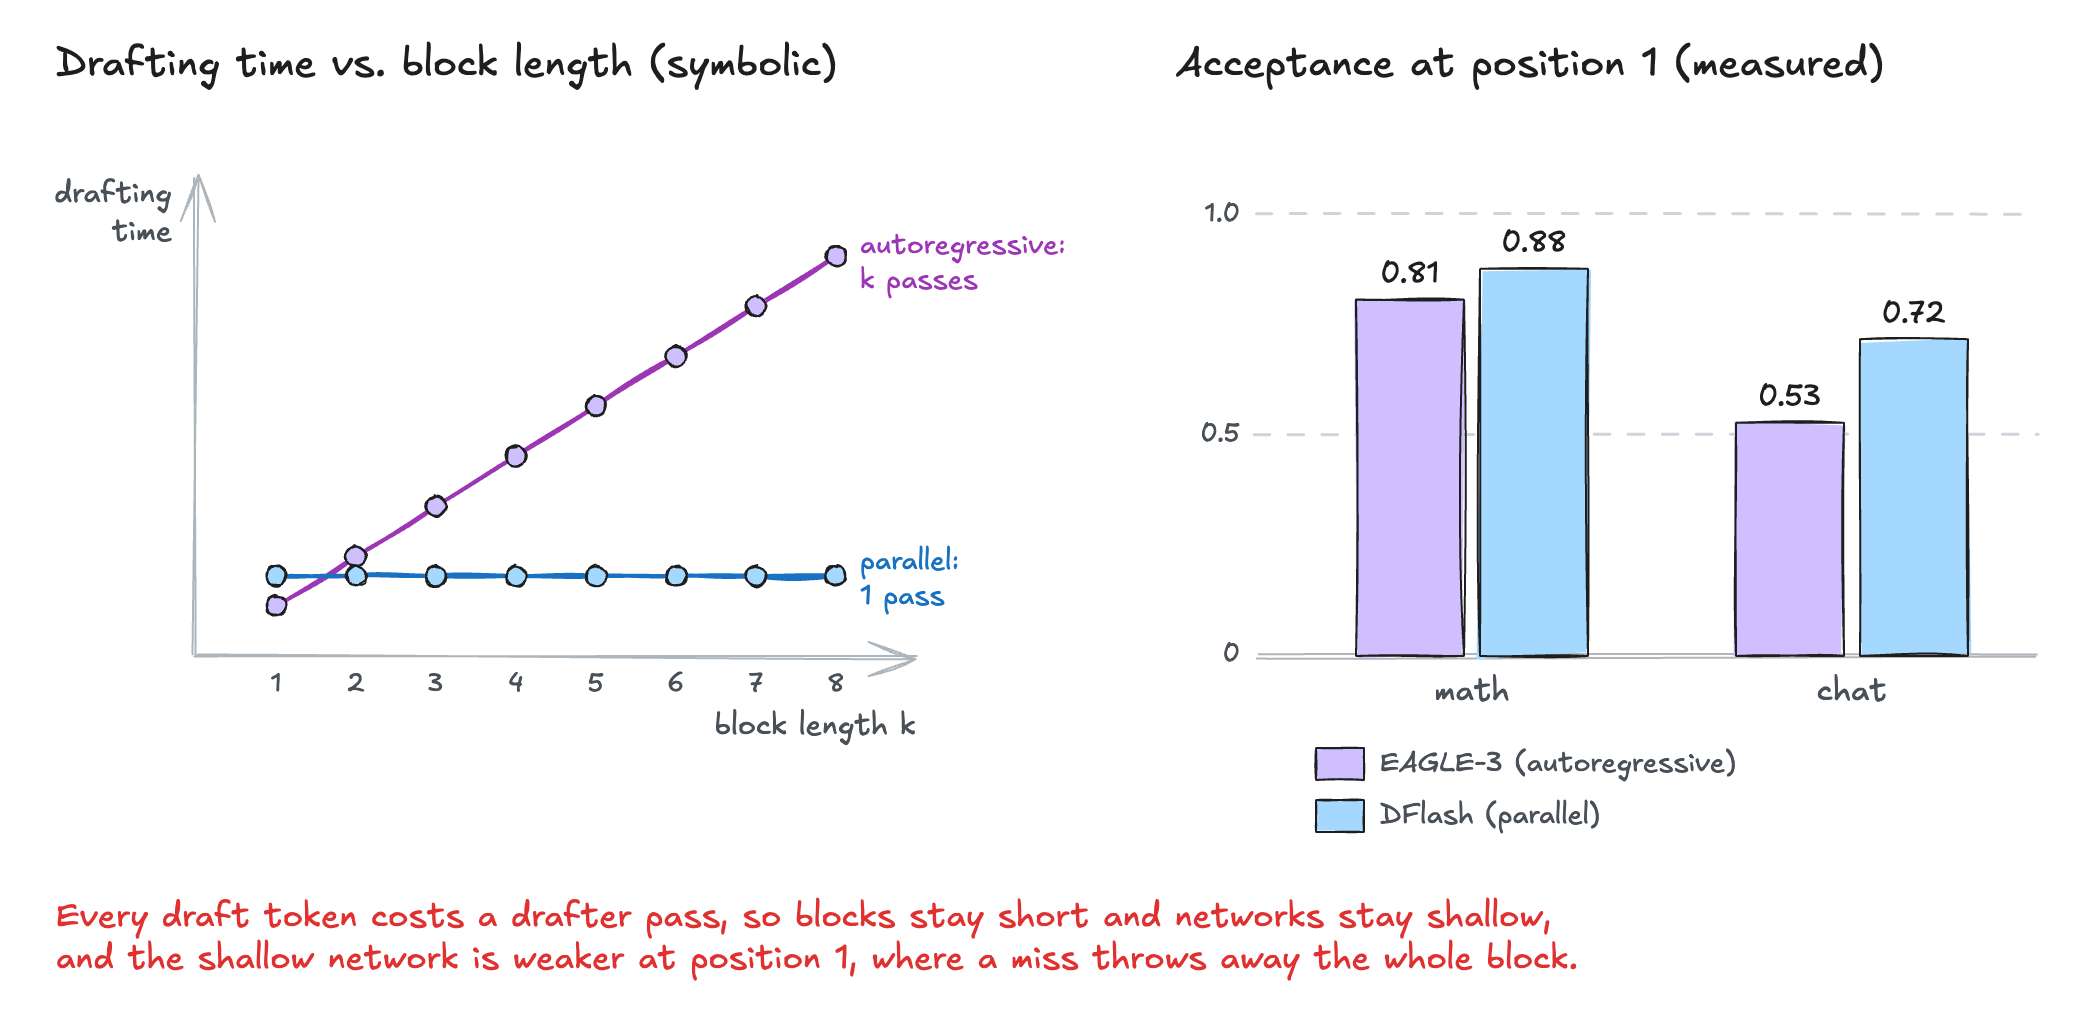
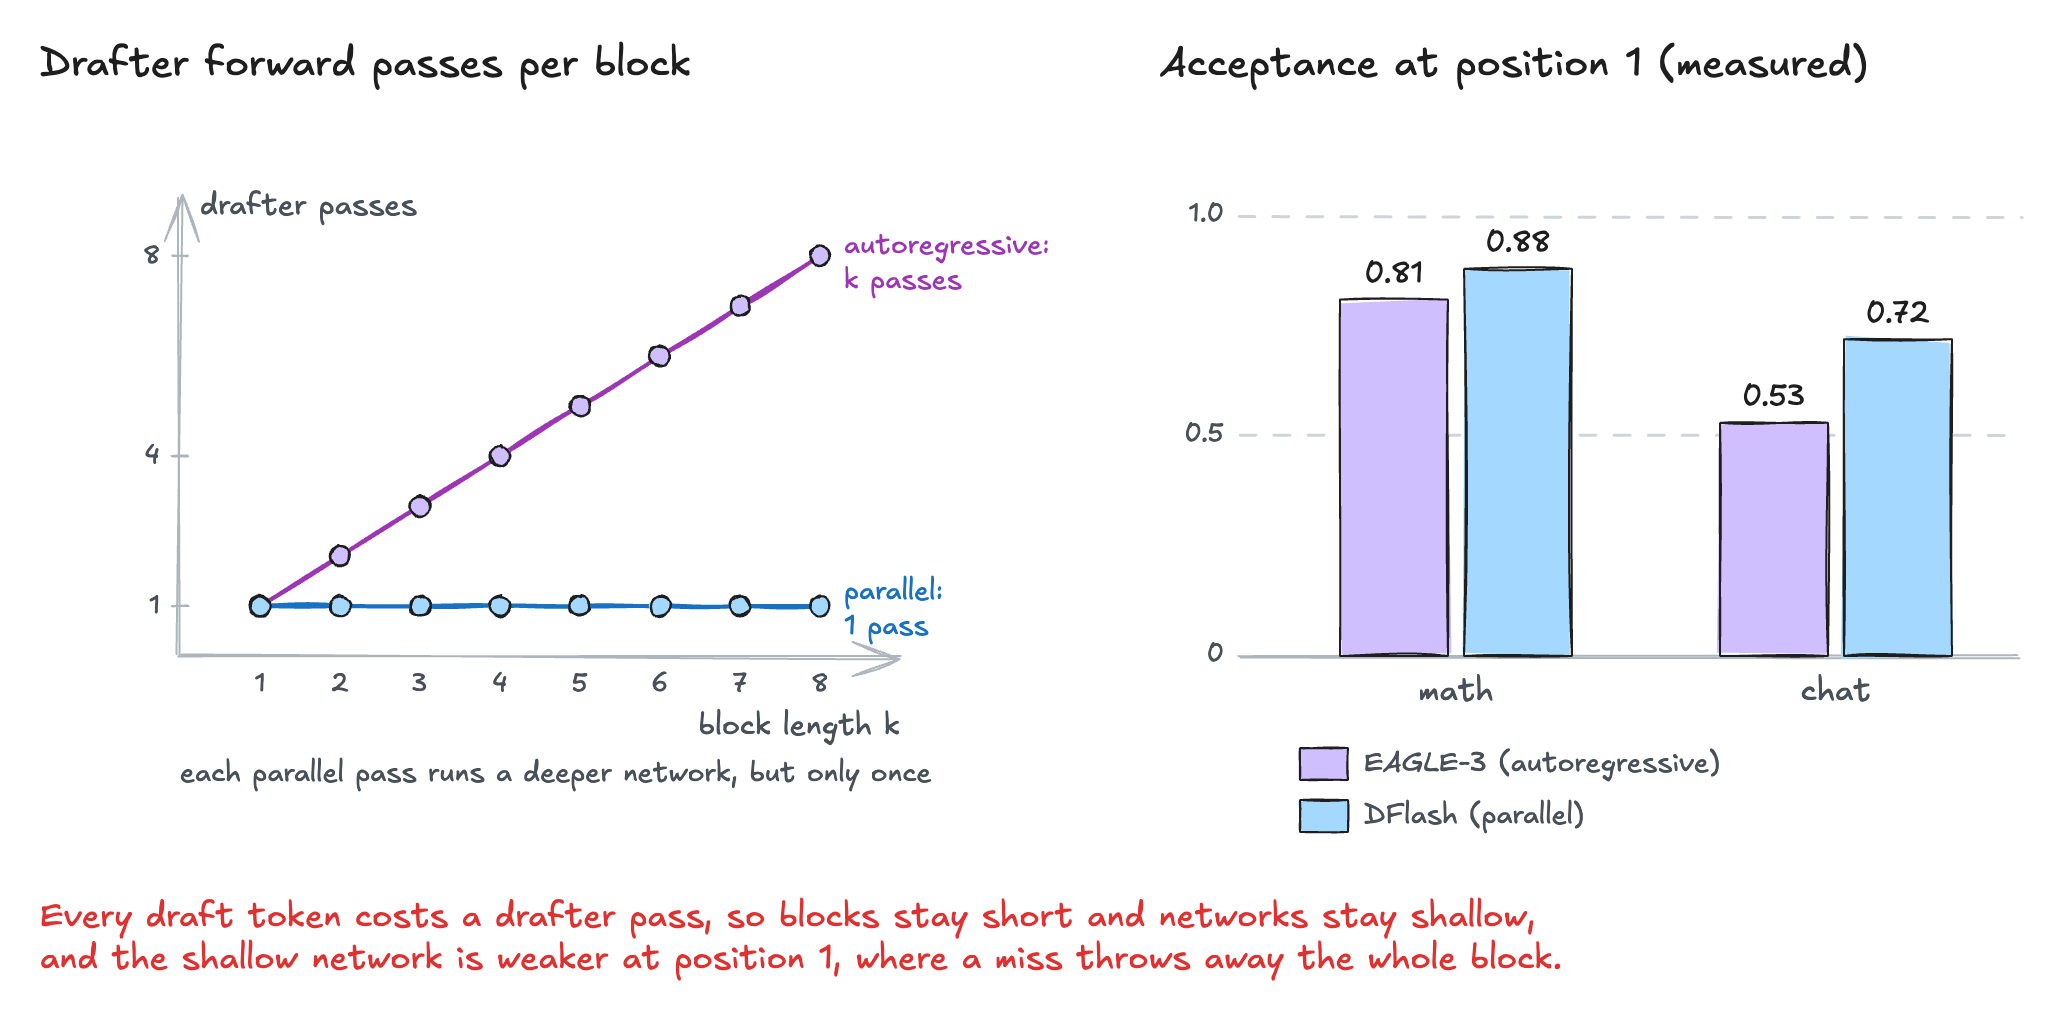
update figures for decoding bottleneck and prior methods; enhance captions for clarity and accuracy

diff --git a/content/articles/dspark/index.md b/content/articles/dspark/index.md
@@ -13,7 +13,7 @@ Most speculative decoding papers optimize a number that does not survive contact
 
 # 1. Why decoding is the bottleneck
 
-{{< figure src="decode-bottleneck.png" link="decode-bottleneck.png" alt="Two timelines. Prefill: one read of the weights, then a long compute bar over every prompt token, producing token 1. Decode: four steps, each a full read of the weights and KV cache with idle compute and a short compute sliver, producing one token per step." caption="Prefill reuses each weight read across the prompt; decode re-reads all weights and the KV cache for every token. Not to scale." >}}
+{{< figure src="decode-bottleneck.png" link="decode-bottleneck.png" alt="Llama 3 8B on one H100, drawn to scale. Prefill reads the 15 GB of weights once in about 4.5 ms while computing on all 2,000 prompt tokens takes about 31 ms, so compute is the bottleneck. Each decode step reads 15.3 GB of weights and KV cache in about 4.6 ms but computes for only 0.016 ms, so compute sits idle 99.6% of the time." caption="Llama 3 8B (BF16) on one H100 at batch 1, from peak specs; drawn to scale." >}}
 
 LLM inference has two phases, **prefill** and **decode**. In prefill, the model processes the whole prompt in one forward pass, building the KV cache and producing the first output token. Every prompt token is processed in parallel, so each weight read from memory is reused across many tokens. Prefill is therefore compute-bound and fast per token.
 
@@ -29,29 +29,31 @@ The speedup depends on two things. First, how cheap the draft is. Second, how ma
 
 {{< figure src="drafter-ar.png" link="drafter-ar.png" alt="An autoregressive drafter runs four passes in sequence, each producing one draft token (fox, jumps, over, a) that feeds the next pass. The target verifies all four in one pass, keeps fox, jumps and over, and replaces the rejected a with its own token, the." caption="Autoregressive drafter: one pass per draft token. Illustrative." >}}
 
-- **Autoregressive drafter**: the drafter generates the k tokens one at a time, each conditioned on the previous one. Drafts are high quality because every token sees the tokens before it, but drafting cost grows linearly with k, so draft lengths stay short. Popular methods include EAGLE-3 and MTP, often paired with tree-based verification to make up for the short drafts.
+## 2.1 Autoregressive drafter
+the drafter generates the k tokens one at a time, each conditioned on the previous one. Drafts are high quality because every token sees the tokens before it, but drafting cost grows linearly with k, so draft lengths stay short. Popular methods include EAGLE-3 and MTP, often paired with tree-based verification to make up for the short drafts.
 
 {{< figure src="drafter-parallel.png" link="drafter-parallel.png" alt="A parallel drafter produces all four draft tokens in a single pass, with no links between positions. The target verifies them in one pass with the same outcome: fox, jumps and over are kept and the target's token replaces a." caption="Parallel drafter: one pass for the whole block. Illustrative." >}}
 
-- **Parallel drafter**: the drafter predicts all k tokens in a single forward pass. Drafting cost stays roughly constant as k grows, but each position is predicted without seeing the actual tokens before it, so the acceptance rate drops at later positions in the block. Popular methods include Medusa, PARD, DART, and DFlash.
+## 2.2 Parallel drafter
+the drafter predicts all k tokens in a single forward pass. Drafting cost stays roughly constant as k grows, but each position is predicted without seeing the actual tokens before it, so the acceptance rate drops at later positions in the block. Popular methods include Medusa, PARD, DART, and DFlash.
 
 # 3. What's wrong with the prior methods?
 
-{{< figure src="prior-ar.png" link="prior-ar.png" alt="Left: a symbolic chart where autoregressive drafting time rises linearly with block length while parallel drafting time stays flat. Right: a bar chart of acceptance at position 1, EAGLE-3 versus DFlash: 0.81 vs 0.88 on math and 0.53 vs 0.72 on chat." caption="Left: symbolic. Right: acceptance at position 1 (DSpark paper, Sec. 4.3.1)." >}}
+{{< figure src="prior-ar.png" link="prior-ar.png" alt="Left: drafter forward passes per block, k for an autoregressive drafter and 1 for a parallel drafter. Right: a bar chart of acceptance at position 1, EAGLE-3 versus DFlash: 0.81 vs 0.88 on math and 0.53 vs 0.72 on chat." caption="Left: drafter passes per block. Right: acceptance at position 1 (DSpark paper, Sec. 4.3.1)." >}}
 
-- **Autoregressive drafters**: Each draft token needs its own drafter forward pass, so drafting latency grows linearly with the block length. To keep that latency low, these drafters use short blocks and small, shallow networks. Tree-based verification tries to make up for the short blocks by verifying several candidate paths at once, but that sends many more tokens to the target model and reduces overall serving throughput. Therefore, this create a degrade impact on the first draft position, because the target only accepts a prefix, a miss there throws away the whole block. At position 1, EAGLE-3, an autoregressive drafter, is accepted less often than DFlash, a parallel drafter that can afford a much deeper network by 0.81 vs. 0.88 on math, and 0.53 vs. 0.72 on chat.
+## 3.1 Autoregressive drafters
+Each draft token needs its own drafter forward pass, so drafting latency grows linearly with the block length. To keep that latency low, these drafters use short blocks and small, shallow networks. Tree-based verification tries to make up for the short blocks by verifying several candidate paths at once, but that sends many more tokens to the target model and reduces overall serving throughput. Therefore, this create a degrade impact on the first draft position, because the target only accepts a prefix, a miss there throws away the whole block. At position 1, EAGLE-3, an autoregressive drafter, is accepted less often than DFlash, a parallel drafter that can afford a much deeper network by 0.81 vs. 0.88 on math, and 0.53 vs. 0.72 on chat.
 
 {{< figure src="prior-parallel.png" link="prior-parallel.png" alt="Left: with a parallel drafter, of or no at position 1 and course or problem at position 2 can combine into nonsense pairs, while an autoregressive drafter only produces matching pairs. Right: a slope chart of conditional acceptance on chat, where DFlash falls from 0.72 to 0.63 and EAGLE-3 rises from 0.53 to 0.74, so the lines cross." caption="Left: the paper's example. Right: conditional acceptance on chat (DSpark paper, Sec. 4.3.1)." >}}
 
-- **Parallel drafters**: A parallel drafter predicts every position in the block in one forward pass, so no position can see which token was actually sampled before it. Instead, each position averages over all the tokens that might come before it. As a result, when the context allows several continuations, different positions can lock onto different ones. For example, if both "of course" and "no problem" fit, a parallel drafter may propose "of problem" or "no course". The paper calls this issue a *multi-modal collision*. These collisions cause *suffix decay*, so even when every earlier token in the block was accepted, each later position is accepted less often than the one before. Therefore, for a pure parallel drafter, each extra position in a longer block is worth less than the one before.
-
-The paper measures *conditional acceptance* at each position such as how often a token is accepted, given that every token before it was. DFlash's conditional acceptance falls along the block, from 0.87 to 0.78 on code and from 0.72 to 0.63 on chat. However, EAGLE-3 does the opposite, because each of its tokens sees the ones before it, it holds steady or even improves deeper into the block (from 0.53 to 0.74 on chat).
+## 3.2 Parallel drafters
+A parallel drafter predicts every position in the block in one forward pass, so no position can see which token was actually sampled before it. Instead, each position averages over all the tokens that might come before it. As a result, when the context allows several continuations, different positions can lock onto different ones. For example, if both "of course" and "no problem" fit, a parallel drafter may propose "of problem" or "no course". The paper calls this issue a *multi-modal collision*. These collisions cause *suffix decay*, so even when every earlier token in the block was accepted, each later position is accepted less often than the one before. Therefore, for a pure parallel drafter, each extra position in a longer block is worth less than the one before. The paper measures *conditional acceptance* at each position such as how often a token is accepted, given that every token before it was. DFlash's conditional acceptance falls along the block, from 0.87 to 0.78 on code and from 0.72 to 0.63 on chat. However, EAGLE-3 does the opposite, because each of its tokens sees the ones before it, it holds steady or even improves deeper into the block (from 0.53 to 0.74 on chat).
 
 Put together, the two families fail in opposite places. Autoregressive drafters are weak at the first position, and parallel drafters get weaker at later ones.
 
 {{< figure src="prior-verify.png" link="prior-verify.png" alt="Left: with a fixed length of six draft tokens, a code request keeps five and a chat request keeps one. Right: at light load a target step has idle slots, so rejected tokens are cheap; at heavy load every slot is full, rejected tokens take room, and a fifth request waits." caption="Illustrative: acceptance varies by request, and rejected tokens cost more under heavy load." >}}
 
-- **Verification length**: Parallel drafting makes long blocks cheap to produce, but verifying every drafted token is not cheap. The ideal verification length changes along two axes.
+## 3.3 Verification length: Parallel drafting makes long blocks cheap to produce, but verifying every drafted token is not cheap. The ideal verification length changes along two axes.
   - **Data:** acceptance depends on the request. Structured text such as code sustains much higher acceptance than open-ended chat, so any single length is too short for some requests and too long for others.
   - **System load:** at light load, verifying an extra token is nearly free. The GPU is waiting on memory anyway, so even a rejected token costs almost nothing. Under heavy load, every token sent for verification adds to the batch the target model processes in that step, and the step gets slower as that batch grows. A token that is likely to be rejected takes batch capacity that could have served another request.
 
@@ -59,7 +61,7 @@ Prior methods either verify a fixed number of tokens or use a static confidence 
 
 # 4. How DSpark works
 
-## 4.1Semi-autoregressive generation
+## 4.1 Semi-autoregressive generation
 
 ## 4.2 Confidence-scheduled verification
 ### 4.2.1 Confidence Head
